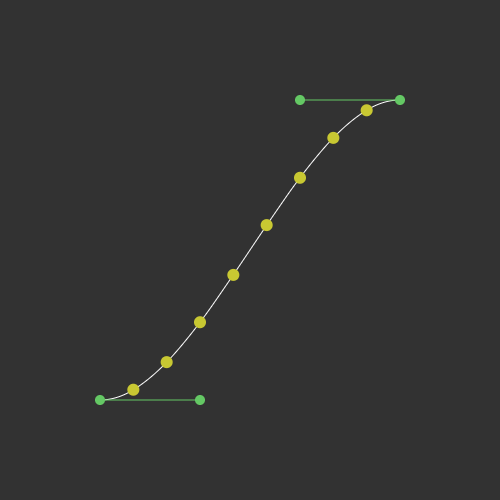
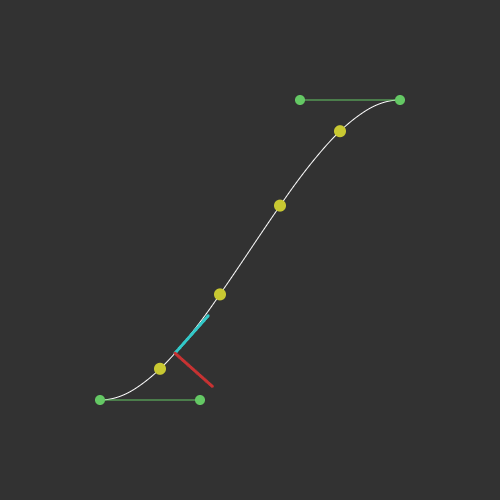
p5js/common/examples/bezier-2 - publish sketch

diff --git a/p5js/common/examples/bezier-2/app.js b/p5js/common/examples/bezier-2/app.js
@@ -2,13 +2,16 @@ var system;
 var bezierCurve;
 let pointsAlongCurve;
 let tangentLine;
+let perpendicularLine;
 
 const settings = {
   enable_drag: true,
-  num_points: 5,
+  num_points: 4,
   tangent: {
     draw: true,
-    percent: 0.25
+    percent: 0.25,
+    perpendicular: true,
+    perpendicular_length: 50
   }
 }
 
@@ -24,12 +27,14 @@ function setup() {
   gui.add(settings, "enable_drag").onChange(updateDragEnabled);
   let pointsGui = gui.addFolder("Points Along Curve Debug");
   pointsGui.open();
-  pointsGui.add(settings, "num_points", 0, 10, 1).onChange(drawIntermediatePoints);
+  pointsGui.add(settings, "num_points", 0, 20, 1).onChange(drawIntermediatePoints);
   
   let tangentGui = gui.addFolder("Tangent Debug");
   tangentGui.open();
   tangentGui.add(settings.tangent, "draw");
   tangentGui.add(settings.tangent, "percent", 0, 1, 0.02);
+  tangentGui.add(settings.tangent, "perpendicular");
+  tangentGui.add(settings.tangent, "perpendicular_length", 5, 200, 5);
 
   drawIntermediatePoints();
 }
@@ -41,17 +46,28 @@ function draw(){
   strokeWeight(1);
   shapes.forEach(s => s.draw());
 
-  stroke(200, 200, 50);
-  fill(200, 200, 50);
-  strokeWeight(12);
-  pointsAlongCurve.forEach(p => p.draw());
+  if (settings.num_points > 0){
+    drawIntermediatePoints();
+    stroke(200, 200, 50);
+    fill(200, 200, 50);
+    strokeWeight(12);
+    pointsAlongCurve.forEach(p => p.draw());
+  }
 
   if (settings.tangent.draw){
     tangentLine = bezierCurve.tangentAt(settings.tangent.percent);
     stroke(50, 200, 200);
-    strokeWeight(2);
+    strokeWeight(3);
     tangentLine.setLength(50);
     tangentLine.draw();
+
+    if (settings.tangent.perpendicular){
+      perpendicularLine = bezierCurve.perpendicularAt(settings.tangent.percent);
+      stroke(200, 50, 50);
+      strokeWeight(3);
+      perpendicularLine.setLength(settings.tangent.perpendicular_length);
+      perpendicularLine.draw();
+    }
   }
 }
 

diff --git a/p5js/common/shapes/line_segment.js b/p5js/common/shapes/line_segment.js
@@ -28,6 +28,10 @@ class LineSegment {
   dy() { return this.endY - this.startY; }
   get slope() { return this.dy() / this.dx(); }
 
+  centerX() { return (this.start.x + this.end.x) / 2; }
+  centerY() { return (this.start.y + this.end.y) / 2; }
+  centerPoint() { return new Point(this.centerX(), this.centerY()); }
+
   get offset() {
     if (this.slope == Infinity) {
       return undefined;
@@ -63,6 +67,14 @@ class LineSegment {
   translate(x, y){
     this.start.move(x, y);
     this.end.move(x, y);
+  }
+
+  rotate90AroundStart(){
+    let deltaX = this.dx();
+    let deltaY = this.dy();
+
+    this.end.x = this.start.x - deltaY;
+    this.end.y = this.start.y + deltaX;
   }
 
   handleMousePressed(){

diff --git a/p5js/common/shapes/bezier_curve.js b/p5js/common/shapes/bezier_curve.js
@@ -31,6 +31,9 @@ class BezierCurve {
 
   // returns a line, perpendicular to the curve at the point
   perpendicularAt(percent){
+    let lineSeg = this.tangentAt(percent);
+    lineSeg.rotate90AroundStart();
+    return lineSeg;
   }
 
   tangentAt(percent){

diff --git a/p5js/common/examples/bezier-2/README.md b/p5js/common/examples/bezier-2/README.md
@@ -6,6 +6,10 @@ This is a [p5.js][p5js-home] sketch to demonstrate the dragging capability of th
 This exposes a bit more of the feature set of the Bezier.js object, including
 
 * Drawing points along the curve
+* Computes tangent at any point
+* Computes perpendicular 
+
+The Tangent is simply computed by getting points just before and just after a slected point and treating it as line-segment.
 
 
 ## Controls
@@ -19,12 +23,16 @@ JS Console
 
 # References:
 * [p5js.org - bezier()][p5js-bezier] Reference docs on drawing a Bézier curve.
+* [p5js.org - bezierPoint()][p5js-bezierPoint] Reference docs on the function that allows you to get points along a Bézier curve.
 * [Wikipedia - Bézier Curve][wikipedia-bezier-curve] - more background on the Bézier curve.
+
 
 # Links: 
 
 * [Live View][live-view]
 * [Source on Github][source-code]
+* Code in this repo: [line_segment.js][source-line_segment] - a separate class within this repo that models a line segment with start and end point.
+* Code in this repo: [bezier_curve.js][source-bezier_curve] - a class which contains points that represent a Bezier curve, and provides a wrapper around the `bezier()` and `bezierPoint()` functions in p5.js.
 
 # Screenshot:
 
@@ -32,7 +40,10 @@ JS Console
 
 [p5js-home]: https://p5js.org/
 [p5js-bezier]: https://p5js.org/reference/p5/bezier/
+[p5js-bezierPoint]: https://p5js.org/reference/p5/bezierPoint/
 [source-code]: https://github.com/brianhonohan/sketchbook/tree/master/p5js/common/examples/bezier/
+[source-line_segment]: https://github.com/brianhonohan/sketchbook/blob/main/p5js/common/shapes/line_segment.js
+[source-bezier_curve]: https://github.com/brianhonohan/sketchbook/blob/main/p5js/common/shapes/bezier_curve.js
 [live-view]: https://brianhonohan.com/sketchbook/p5js/common/examples/bezier/
 [screenshot-01]: ./screenshot-01.png
 [wikipedia-bezier-curve]: https://en.wikipedia.org/wiki/B%C3%A9zier_curve

diff --git a/README.md b/README.md
@@ -5,9 +5,9 @@ Collection of personal coding projects. They may or may not grow into individual
 
 ## Latest
 
-A p5.js sketch is an iteration to of the Marching Squares sketch, adding suport for multiple level isolines and tiered coloring.
+A p5.js sketch is an iteration to of the Bezier example sketch, showing some new capability to get points along the curve via `bezierPoint()` and from that compute tangents and perpendicular lines on the curve at any point.
 
-[<img src="./p5js/coding-challenges/marching-squares-3/screenshot-01.png" alt="marching-squares-3" width="150px" />][link-p5js-cc-marching-squares-3]
+[<img src="./p5js/common/examples/bezier-2/screenshot-01.png" alt="bezier" width="150px" />][link-p5js-bezier-2]
 
 ## LÖVE
 Collection of sketches using the [LÖVE][love2d] environment.
